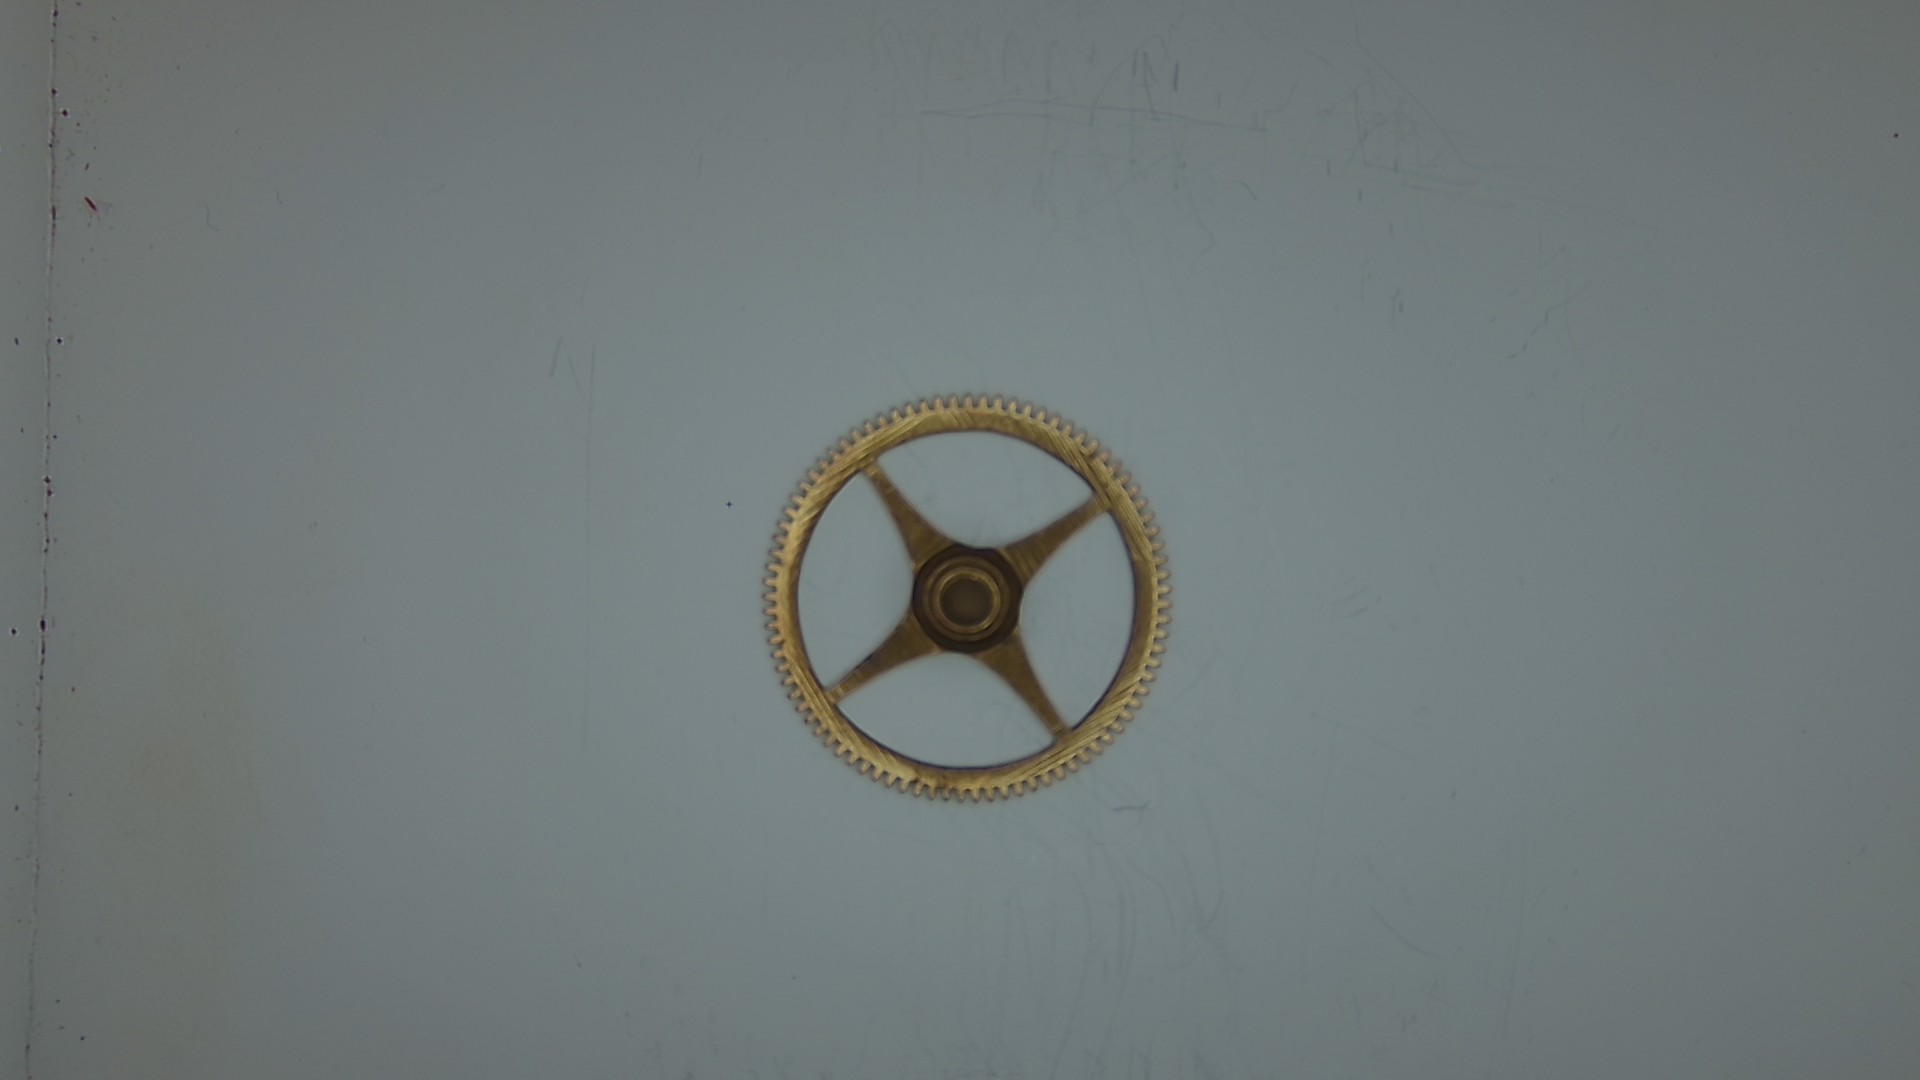
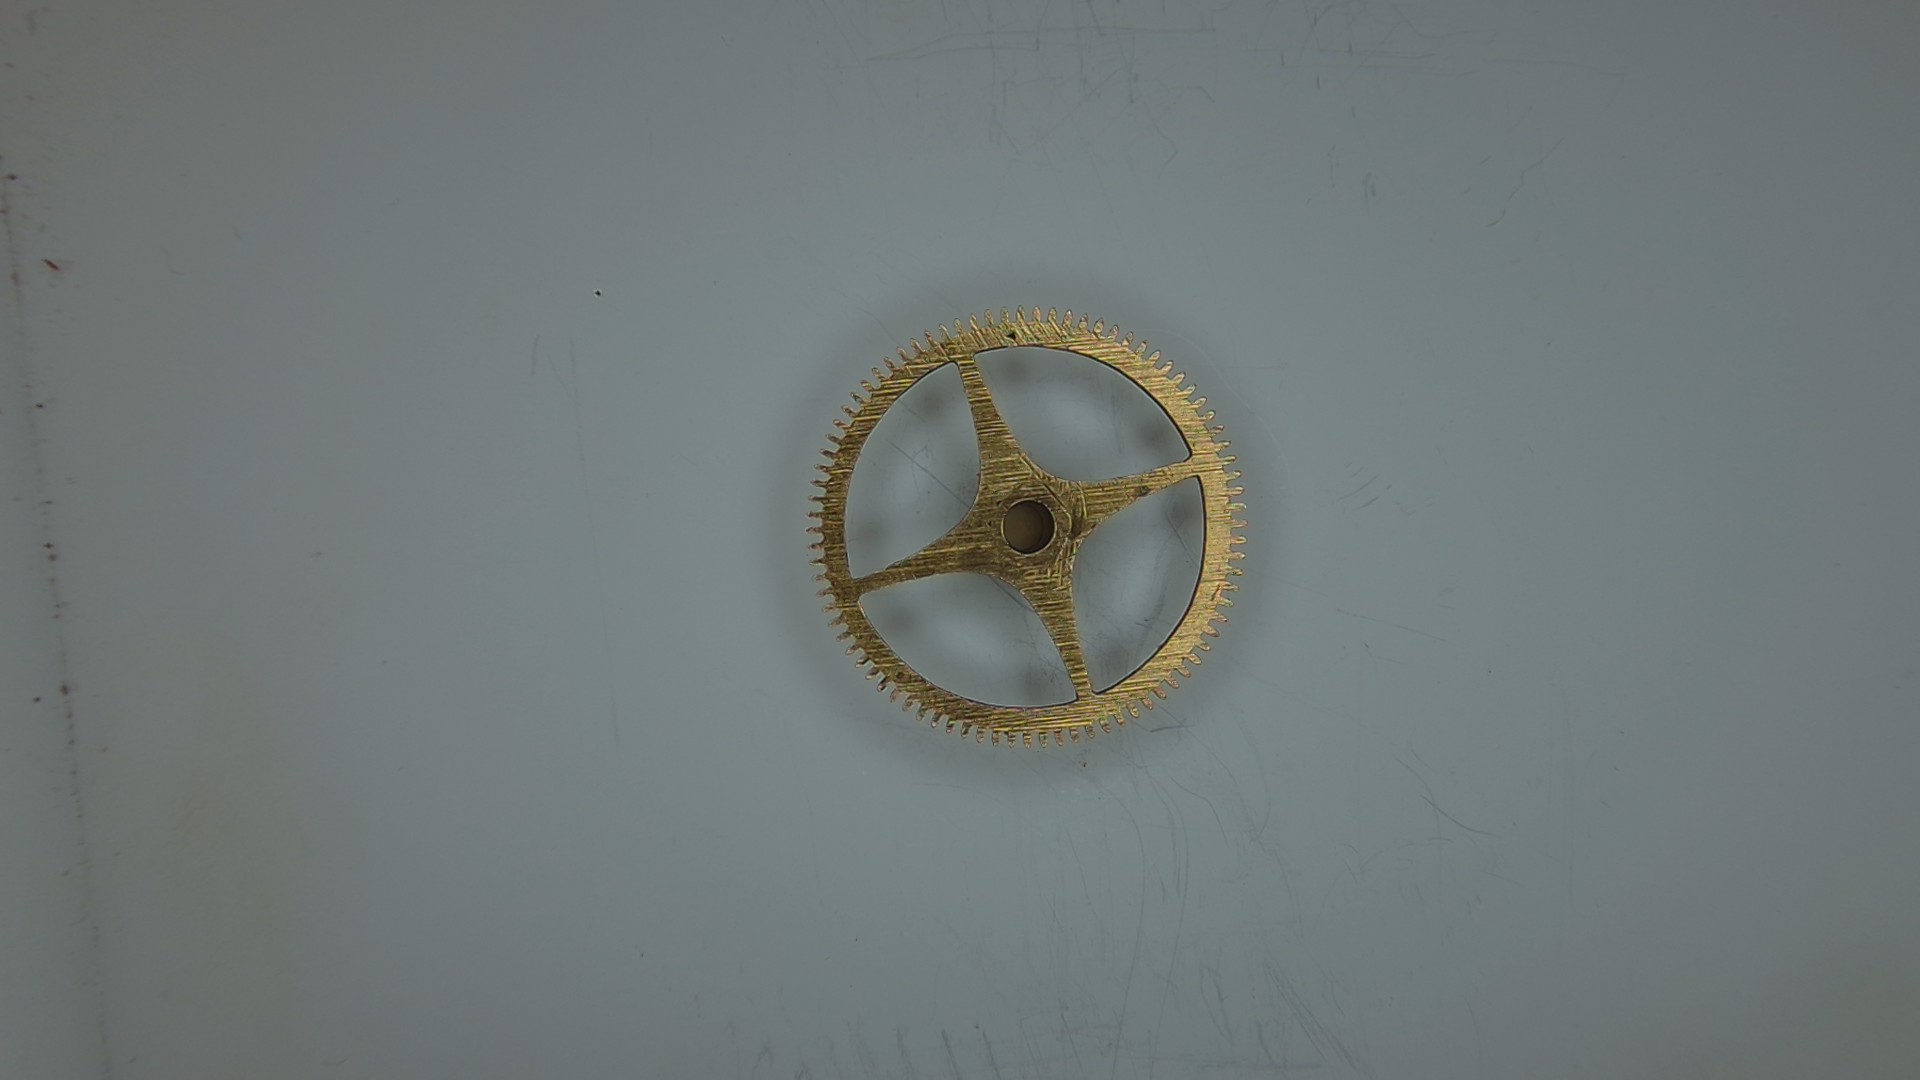
fixed keyboard processing for '[' and ']' snapped a better image that is fully in focus

Changed region(s): [[0.375, 0.275, 0.6562, 0.7639]]

diff --git a/src/app/application.cpp b/src/app/application.cpp
@@ -299,13 +299,16 @@ namespace cc::app {
                     }
                     break;
 
-                case '[':
-                case ']': {
+                // non-ascii characters should use the virtualkey macros
+                // VK_OEM_4 '[{' for US
+                // VK_OEM_6 ']}' for US
+                case VK_OEM_4:
+                case VK_OEM_6: {
                     long min_f, max_f, step_f;
                     if (m_CameraManager->get_focus_range(min_f, max_f, step_f)) {
                         long current_f;
                         if (m_CameraManager->get_focus(current_f)) {
-                            long next_f = current_f + (key == ']' ? step_f : -step_f);
+                            long next_f = current_f + (key == VK_OEM_4 ? step_f : -step_f);
                             next_f = std::clamp(next_f, min_f, max_f);
 
                             if (m_CameraManager->set_focus(next_f)) {
